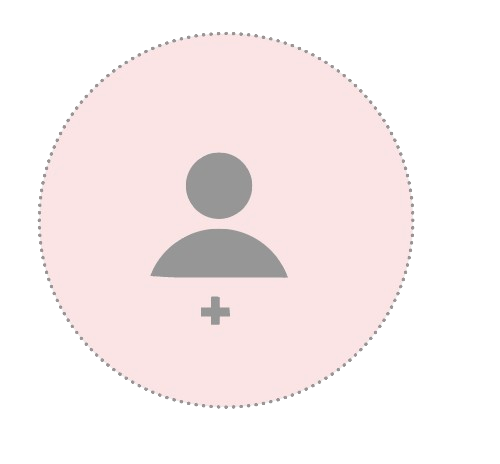
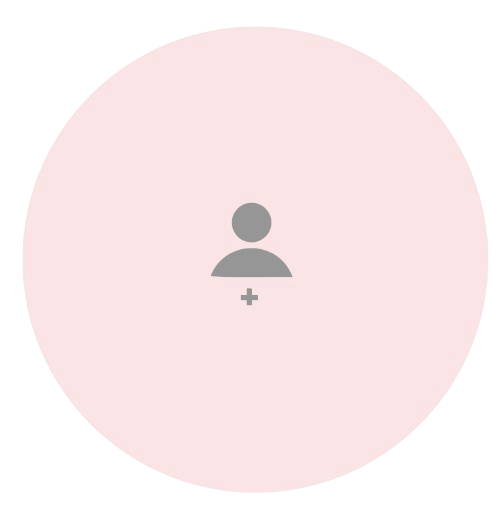
upload page

diff --git a/frontend/src/pages/index.tsx b/frontend/src/pages/index.tsx
@@ -100,7 +100,7 @@ export default function IndexPage() {
           <div className="flex flex-col items-center gap-4">
           <div className="flex justify-center gap-6">
             <div className="image-button">
-              <button onClick={handleUploadClick} className="circular-button" style={{ "--button-size": "16rem" } as React.CSSProperties}>
+              <button onClick={handleUploadClick} className="circular-button" style={{ "--button-size": "16rem", "--translate-y": "15px", "--width": "130%", "--height": "150%" } as React.CSSProperties}>
                 <img src={groupPic} alt="Upload Image" />
               </button>
               <br></br>
@@ -108,8 +108,7 @@ export default function IndexPage() {
             </div>
 
             <div className="image-button">
-              
-              <button onClick={handleUploadPictureOfPersonClick} className="circular-button" style={{ "--button-size": "12rem" } as React.CSSProperties}>
+              <button onClick={handleUploadPictureOfPersonClick} className="circular-button" style={{ "--button-size": "12rem", "--translate-x": "-2px", "--width": "300%", "--height": "220%" } as React.CSSProperties}>
                 <img src={indPic} alt="Upload Ind Image" className="w-60 h-70 object-contain cursor-pointer hover:opacity-80" />
               </button>
               <p className="image-text">Upload person to remove</p>

diff --git a/frontend/src/styles/globals.css b/frontend/src/styles/globals.css
@@ -25,7 +25,11 @@ body {
 }
 
 .circular-button {
+  --translate-x: 0px;
+  --translate-y: 0px;
   --button-size: 16rem;
+  --width: 100%;
+  --height: 100%;
   width: var(--button-size);
   height: var(--button-size);
   border-radius: 50%;
@@ -40,10 +44,10 @@ body {
 }
 
 .circular-button img {
-  width: 130%;
-  height: 150%;
+  width: var(--width);
+  height: var(--height);
   object-fit: cover;
-  transform: translateY(15px);
+  transform: translate(var(--translate-x), var(--translate-y));
 }
 
 .circular-button:hover {
